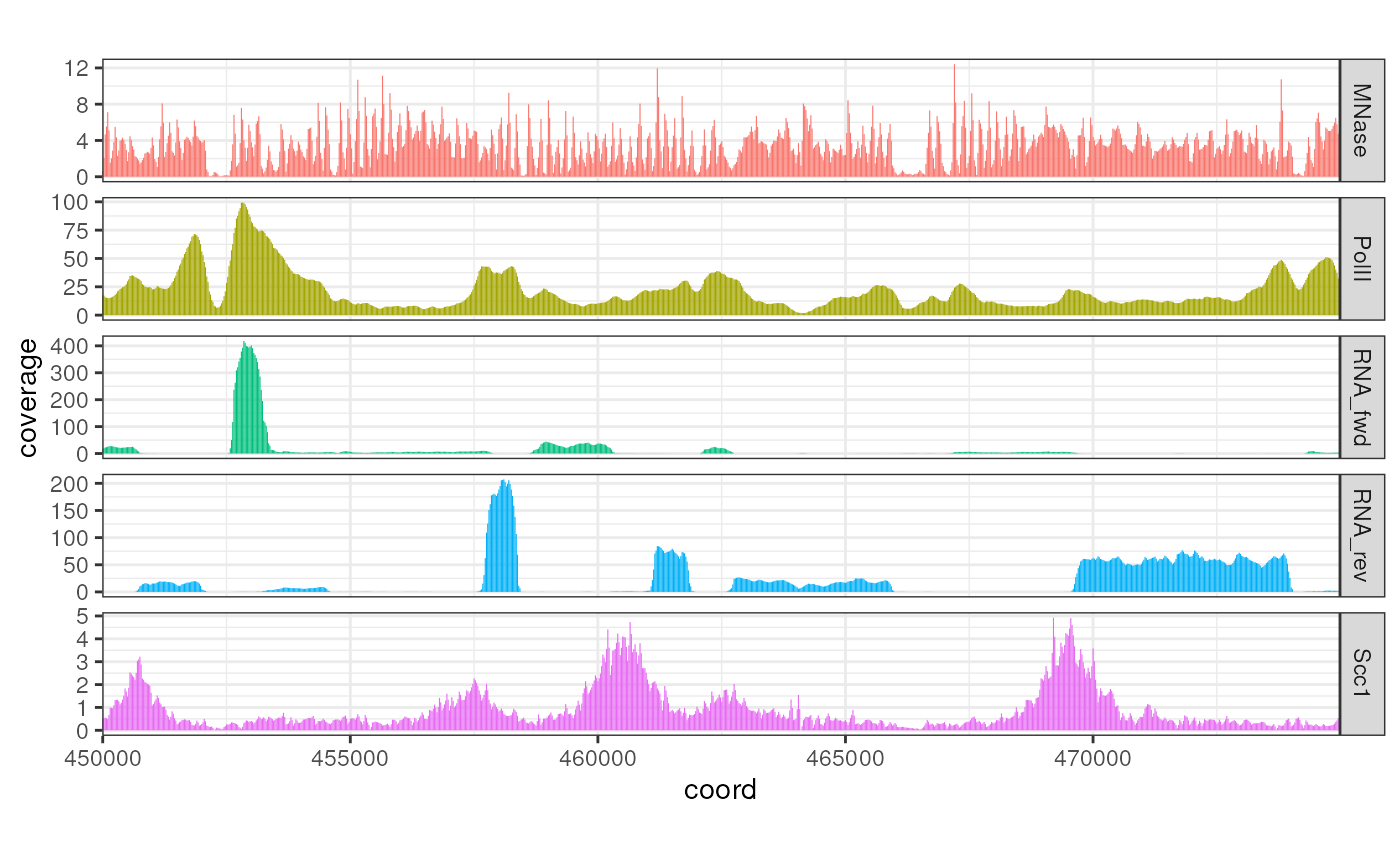
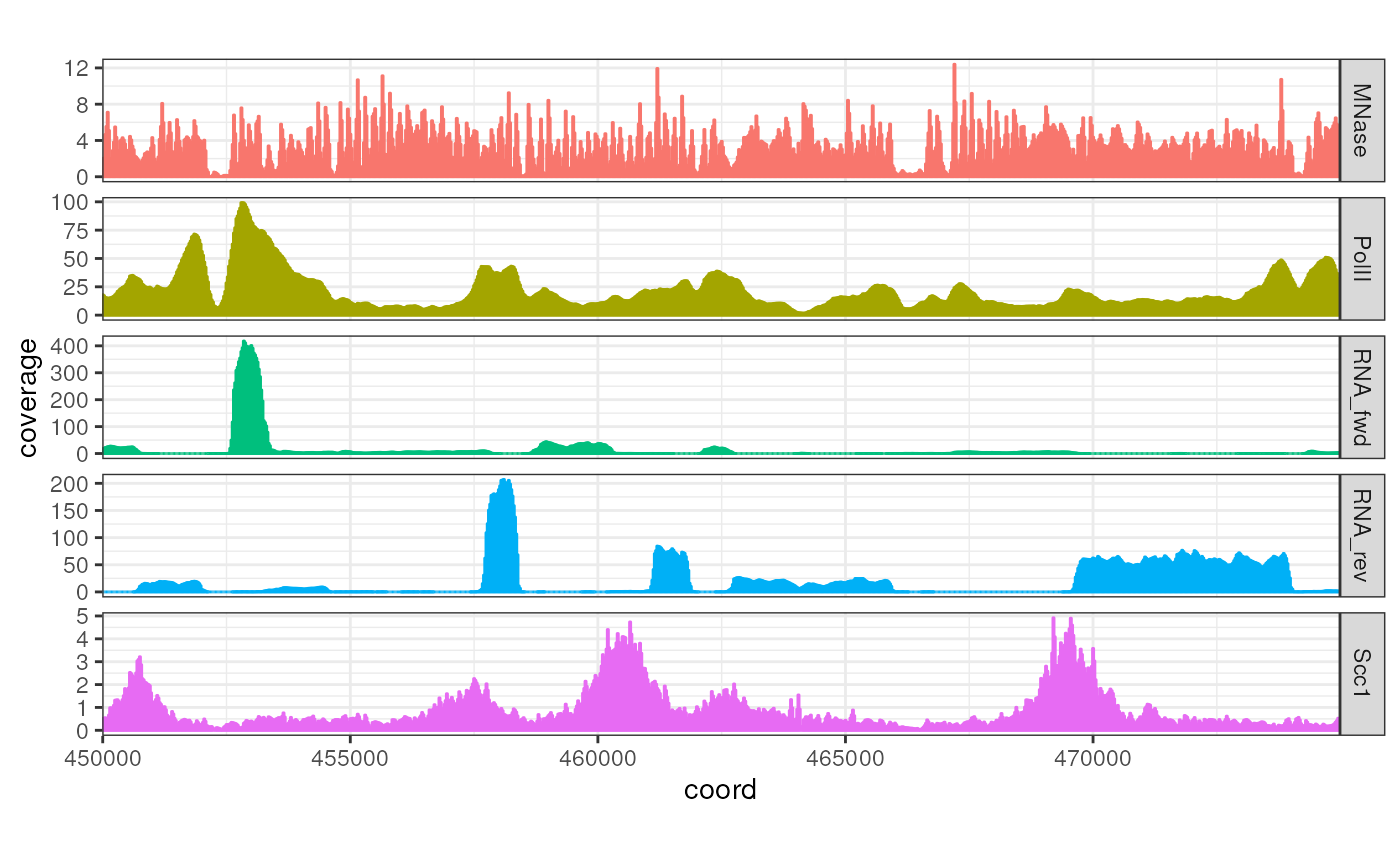
Deploying to gh-pages from @ js2264/tidyCoverage@96337ba08e671bdcc7a5e706673d51057a91e23a 🚀

diff --git a/articles/tidyCoverage.html b/articles/tidyCoverage.html
@@ -67,7 +67,7 @@
   <main id="main" class="col-md-9"><div class="page-header">
       <img src="" class="logo" alt=""><h1>Introduction to tidyCoverage</h1>
             
-            <h4 data-toc-skip class="date">27 November 2023</h4>
+            <h4 data-toc-skip class="date">28 November 2023</h4>
       
       <small class="dont-index">Source: <a href="https://github.com/js2264/tidyCoverage/blob/HEAD/vignettes/tidyCoverage.Rmd" class="external-link"><code>vignettes/tidyCoverage.Rmd</code></a></small>
       <div class="d-none name"><code>tidyCoverage.Rmd</code></div>
@@ -315,11 +315,11 @@
 <span><span class="va">CE2</span> <span class="op">&lt;-</span> <span class="fu"><a href="../reference/CoverageExperiment.html">CoverageExperiment</a></span><span class="op">(</span></span>
 <span>    tracks <span class="op">=</span> <span class="va">tracks</span>, </span>
 <span>    features <span class="op">=</span> <span class="fu"><a href="https://rdrr.io/pkg/GenomicRanges/man/GRanges-class.html" class="external-link">GRanges</a></span><span class="op">(</span><span class="va">locus</span><span class="op">)</span>,</span>
-<span>    width <span class="op">=</span> <span class="fu"><a href="https://rdrr.io/pkg/BiocGenerics/man/start.html" class="external-link">width</a></span><span class="op">(</span><span class="fu"><a href="https://rdrr.io/pkg/GenomicRanges/man/GRanges-class.html" class="external-link">GRanges</a></span><span class="op">(</span><span class="va">locus</span><span class="op">)</span><span class="op">)</span></span>
+<span>    width <span class="op">=</span> <span class="fu"><a href="https://rdrr.io/pkg/BiocGenerics/man/start.html" class="external-link">width</a></span>   <span class="op">(</span><span class="fu"><a href="https://rdrr.io/pkg/GenomicRanges/man/GRanges-class.html" class="external-link">GRanges</a></span><span class="op">(</span><span class="va">locus</span><span class="op">)</span><span class="op">)</span></span>
 <span><span class="op">)</span> <span class="op">|&gt;</span> <span class="fu"><a href="../reference/CoverageExperiment.html">coarsen</a></span><span class="op">(</span>window <span class="op">=</span> <span class="fu"><a href="https://rdrr.io/pkg/BiocGenerics/man/start.html" class="external-link">width</a></span><span class="op">(</span><span class="fu"><a href="https://rdrr.io/pkg/GenomicRanges/man/GRanges-class.html" class="external-link">GRanges</a></span><span class="op">(</span><span class="va">locus</span><span class="op">)</span><span class="op">)</span><span class="op">/</span><span class="fl">1000</span><span class="op">)</span></span>
 <span><span class="fu"><a href="https://tibble.tidyverse.org/reference/as_tibble.html" class="external-link">as_tibble</a></span><span class="op">(</span><span class="va">CE2</span><span class="op">)</span> <span class="op">|&gt;</span> </span>
 <span>    <span class="fu"><a href="https://ggplot2.tidyverse.org/reference/ggplot.html" class="external-link">ggplot</a></span><span class="op">(</span><span class="fu"><a href="https://ggplot2.tidyverse.org/reference/aes.html" class="external-link">aes</a></span><span class="op">(</span>x <span class="op">=</span> <span class="va">coord</span>, y <span class="op">=</span> <span class="va">coverage</span><span class="op">)</span><span class="op">)</span> <span class="op">+</span> </span>
-<span>        <span class="fu"><a href="https://ggplot2.tidyverse.org/reference/geom_bar.html" class="external-link">geom_col</a></span><span class="op">(</span><span class="fu"><a href="https://ggplot2.tidyverse.org/reference/aes.html" class="external-link">aes</a></span><span class="op">(</span>fill <span class="op">=</span> <span class="va">track</span><span class="op">)</span>, col <span class="op">=</span> <span class="cn">NA</span><span class="op">)</span> <span class="op">+</span> </span>
+<span>        <span class="fu"><a href="https://ggplot2.tidyverse.org/reference/geom_bar.html" class="external-link">geom_col</a></span><span class="op">(</span><span class="fu"><a href="https://ggplot2.tidyverse.org/reference/aes.html" class="external-link">aes</a></span><span class="op">(</span>fill <span class="op">=</span> <span class="va">track</span>, col <span class="op">=</span> <span class="va">track</span><span class="op">)</span><span class="op">)</span> <span class="op">+</span> </span>
 <span>        <span class="fu"><a href="https://ggplot2.tidyverse.org/reference/facet_grid.html" class="external-link">facet_grid</a></span><span class="op">(</span><span class="va">track</span><span class="op">~</span><span class="va">.</span>, scales <span class="op">=</span> <span class="st">'free'</span><span class="op">)</span> <span class="op">+</span> </span>
 <span>        <span class="fu"><a href="https://ggplot2.tidyverse.org/reference/scale_continuous.html" class="external-link">scale_x_continuous</a></span><span class="op">(</span>expand <span class="op">=</span> <span class="fu"><a href="https://rdrr.io/r/base/c.html" class="external-link">c</a></span><span class="op">(</span><span class="fl">0</span>, <span class="fl">0</span><span class="op">)</span><span class="op">)</span> <span class="op">+</span> </span>
 <span>        <span class="fu"><a href="https://ggplot2.tidyverse.org/reference/ggtheme.html" class="external-link">theme_bw</a></span><span class="op">(</span><span class="op">)</span> <span class="op">+</span> </span>
@@ -614,22 +614,27 @@ of forward human genes<a class="anchor" aria-label="anchor" href="#computing-the
 <span><span class="op">)</span></span>
 <span></span>
 <span><span class="co"># ~~~~~~~~~~ Aggregate coverages ~~~~~~~~~~ #</span></span>
-<span><span class="va">AC</span> <span class="op">&lt;-</span> <span class="fu"><a href="https://rdrr.io/r/stats/aggregate.html" class="external-link">aggregate</a></span><span class="op">(</span><span class="va">CE</span>, <span class="fl">50</span><span class="op">)</span></span>
+<span><span class="va">AC</span> <span class="op">&lt;-</span> <span class="fu"><a href="https://rdrr.io/r/stats/aggregate.html" class="external-link">aggregate</a></span><span class="op">(</span><span class="va">CE</span><span class="op">)</span></span>
 <span></span>
 <span><span class="co"># ~~~~~~~~~~ Plot the resulting AggregatedCoverage object ~~~~~~~~~~ #</span></span>
-<span><span class="va">AC</span><span class="op">$</span><span class="va">histone</span> <span class="op">&lt;-</span> <span class="fu">case_when</span><span class="op">(</span></span>
-<span>    <span class="fu">stringr</span><span class="fu">::</span><span class="fu"><a href="https://stringr.tidyverse.org/reference/str_detect.html" class="external-link">str_detect</a></span><span class="op">(</span><span class="va">AC</span><span class="op">$</span><span class="va">track</span>, <span class="st">'H2A'</span><span class="op">)</span> <span class="op">~</span> <span class="st">"H2A"</span>, </span>
-<span>    <span class="fu">stringr</span><span class="fu">::</span><span class="fu"><a href="https://stringr.tidyverse.org/reference/str_detect.html" class="external-link">str_detect</a></span><span class="op">(</span><span class="va">AC</span><span class="op">$</span><span class="va">track</span>, <span class="st">'H2B'</span><span class="op">)</span> <span class="op">~</span> <span class="st">"H2B"</span>, </span>
-<span>    <span class="fu">stringr</span><span class="fu">::</span><span class="fu"><a href="https://stringr.tidyverse.org/reference/str_detect.html" class="external-link">str_detect</a></span><span class="op">(</span><span class="va">AC</span><span class="op">$</span><span class="va">track</span>, <span class="st">'H3'</span><span class="op">)</span> <span class="op">~</span> <span class="st">"H3"</span></span>
-<span><span class="op">)</span></span>
-<span><span class="va">AC</span></span>
-<span>    <span class="fu"><a href="https://ggplot2.tidyverse.org/reference/ggplot.html" class="external-link">ggplot</a></span><span class="op">(</span><span class="fu"><a href="https://ggplot2.tidyverse.org/reference/aes.html" class="external-link">aes</a></span><span class="op">(</span>x <span class="op">=</span> <span class="va">coord</span>, y <span class="op">=</span> <span class="va">mean</span><span class="op">)</span><span class="op">)</span> <span class="op">+</span> </span>
+<span><span class="va">df</span> <span class="op">&lt;-</span> <span class="va">AC</span> <span class="op">|&gt;</span> </span>
+<span>    <span class="fu"><a href="https://tibble.tidyverse.org/reference/as_tibble.html" class="external-link">as_tibble</a></span><span class="op">(</span><span class="op">)</span> <span class="op">|&gt;</span> </span>
+<span>    <span class="fu"><a href="https://dplyr.tidyverse.org/reference/mutate.html" class="external-link">mutate</a></span><span class="op">(</span></span>
+<span>        histone <span class="op">=</span> <span class="fu">dplyr</span><span class="fu">::</span><span class="fu"><a href="https://dplyr.tidyverse.org/reference/case_when.html" class="external-link">case_when</a></span><span class="op">(</span></span>
+<span>            <span class="fu">stringr</span><span class="fu">::</span><span class="fu"><a href="https://stringr.tidyverse.org/reference/str_detect.html" class="external-link">str_detect</a></span><span class="op">(</span><span class="va">track</span>, <span class="st">'H2A'</span><span class="op">)</span> <span class="op">~</span> <span class="st">"H2A"</span>, </span>
+<span>            <span class="fu">stringr</span><span class="fu">::</span><span class="fu"><a href="https://stringr.tidyverse.org/reference/str_detect.html" class="external-link">str_detect</a></span><span class="op">(</span><span class="va">track</span>, <span class="st">'H2B'</span><span class="op">)</span> <span class="op">~</span> <span class="st">"H2B"</span>, </span>
+<span>            <span class="fu">stringr</span><span class="fu">::</span><span class="fu"><a href="https://stringr.tidyverse.org/reference/str_detect.html" class="external-link">str_detect</a></span><span class="op">(</span><span class="va">track</span>, <span class="st">'H3'</span><span class="op">)</span> <span class="op">~</span> <span class="st">"H3"</span></span>
+<span>        <span class="op">)</span></span>
+<span>    <span class="op">)</span></span>
+<span><span class="va">p</span> <span class="op">&lt;-</span> <span class="va">df</span> <span class="op">|&gt;</span> <span class="fu"><a href="https://ggplot2.tidyverse.org/reference/ggplot.html" class="external-link">ggplot</a></span><span class="op">(</span><span class="fu"><a href="https://ggplot2.tidyverse.org/reference/aes.html" class="external-link">aes</a></span><span class="op">(</span>x <span class="op">=</span> <span class="va">coord</span>, y <span class="op">=</span> <span class="va">mean</span><span class="op">)</span><span class="op">)</span> <span class="op">+</span> </span>
 <span>    <span class="fu"><a href="https://ggplot2.tidyverse.org/reference/geom_ribbon.html" class="external-link">geom_ribbon</a></span><span class="op">(</span><span class="fu"><a href="https://ggplot2.tidyverse.org/reference/aes.html" class="external-link">aes</a></span><span class="op">(</span>ymin <span class="op">=</span> <span class="va">ci_low</span>, ymax <span class="op">=</span> <span class="va">ci_high</span>, fill <span class="op">=</span> <span class="va">track</span><span class="op">)</span>, alpha <span class="op">=</span> <span class="fl">0.2</span><span class="op">)</span> <span class="op">+</span> </span>
 <span>    <span class="fu"><a href="https://ggplot2.tidyverse.org/reference/geom_path.html" class="external-link">geom_line</a></span><span class="op">(</span><span class="fu"><a href="https://ggplot2.tidyverse.org/reference/aes.html" class="external-link">aes</a></span><span class="op">(</span>col <span class="op">=</span> <span class="va">track</span><span class="op">)</span><span class="op">)</span> <span class="op">+</span> </span>
 <span>    <span class="fu"><a href="https://ggplot2.tidyverse.org/reference/facet_grid.html" class="external-link">facet_grid</a></span><span class="op">(</span><span class="op">~</span><span class="va">histone</span><span class="op">)</span> <span class="op">+</span> </span>
 <span>    <span class="fu"><a href="https://ggplot2.tidyverse.org/reference/labs.html" class="external-link">labs</a></span><span class="op">(</span>x <span class="op">=</span> <span class="st">'Distance from TSSs'</span>, y <span class="op">=</span> <span class="st">'Mean histone PTM coverage'</span><span class="op">)</span> <span class="op">+</span> </span>
 <span>    <span class="fu"><a href="https://ggplot2.tidyverse.org/reference/ggtheme.html" class="external-link">theme_bw</a></span><span class="op">(</span><span class="op">)</span> <span class="op">+</span> </span>
-<span>    <span class="fu"><a href="https://ggplot2.tidyverse.org/reference/theme.html" class="external-link">theme</a></span><span class="op">(</span>legend.position <span class="op">=</span> <span class="st">'top'</span><span class="op">)</span></span></code></pre></div>
+<span>    <span class="fu"><a href="https://ggplot2.tidyverse.org/reference/theme.html" class="external-link">theme</a></span><span class="op">(</span>legend.position <span class="op">=</span> <span class="st">'top'</span><span class="op">)</span> <span class="op">+</span> </span>
+<span>    <span class="fu">hues</span><span class="fu">::</span><span class="fu"><a href="https://rdrr.io/pkg/hues/man/hues-ggplot2-scales.html" class="external-link">scale_colour_iwanthue</a></span><span class="op">(</span><span class="op">)</span> <span class="op">+</span> </span>
+<span>    <span class="fu">hues</span><span class="fu">::</span><span class="fu"><a href="https://rdrr.io/pkg/hues/man/hues-ggplot2-scales.html" class="external-link">scale_fill_iwanthue</a></span><span class="op">(</span><span class="op">)</span> </span></code></pre></div>
 <p><img src="../reference/figures/PTMs-TSSs.png"></p>
 </div>
 </div>
